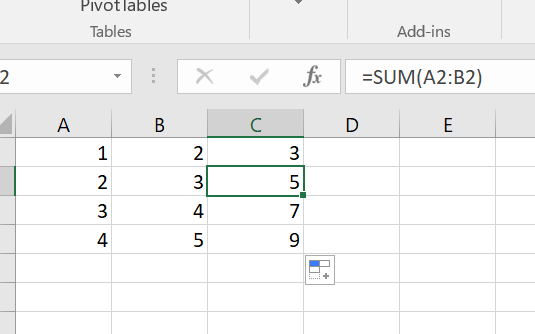
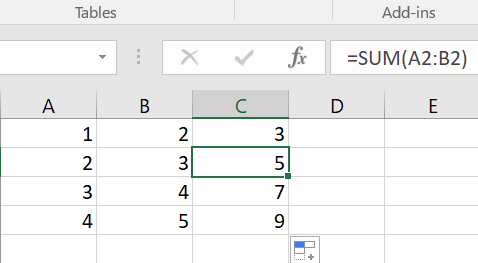
Bilder zu Tutorials

diff --git a/src/app/Tutorials/9.Klasse/1.Tabellenkalkulationsprogramm/tabellenkalkulationsprogramm/tabellenkalkulationsprogramm.component.html b/src/app/Tutorials/9.Klasse/1.Tabellenkalkulationsprogramm/tabellenkalkulationsprogramm/tabellenkalkulationsprogramm.component.html
@@ -96,19 +96,22 @@
         </div>
       <div blackbox></div>
     </div>
-    <div container *ngIf="steps[13]==true">
+    <div container *ngIf="steps[12]==true">
       <div class="line"></div>
-        <div class="box bl" (click)="steps[14]=true">
+        <div class="box bl" (click)="steps[13]=true">
           Ein relativer Zellbezug, im Gegensatz berechnet Zellen immer relativ zu ihrer Position.
-          <img src="Zellbezüge1"><img src="Zellbezüge2">
+          <img src="\assets\Zellbezüge2.png"
+          style="width: 300px">
+          <img src="\assets\Zellbezüge1.png"
+          style="width:300px">
           An dem Beispiel sieht man wie die Zellbezüge sich von A1 und B1 auf A2 und B2 verschieben.
           Dies funktioniert sowohl horizontal als auch vertikal.
         </div>
       <div blackbox></div>
     </div>
-    <div container *ngIf="steps[14]==true">
+    <div container *ngIf="steps[13]==true">
       <div class="line"></div>
-        <div class="box bl" (click)="steps[15]=true">
+        <div class="box bl" (click)="steps[14]=true">
           Diese zwei Arten von Zellbezügen können auch gemischt werden, 
           sodass vertikal ein absoluter Zellbezug besteht und horizontal ein relativer oder umgekehrt. 
           Dabei wird das $-Zeichen nur vor den Buchstaben oder die Zahl geschrieben.

diff --git a/src/app/Tutorials/9.Klasse/1.Tabellenkalkulationsprogramm/datenflussdiagramm/datenflussdiagramm.component.html b/src/app/Tutorials/9.Klasse/1.Tabellenkalkulationsprogramm/datenflussdiagramm/datenflussdiagramm.component.html
@@ -21,7 +21,8 @@
       <div container *ngIf="steps[4]==true">
         <div class="line"></div>
           <div class="box bl" (click)="steps[5]=true">
-            <img src="datenflussdiagramm1">
+            <img src="\assets\datenflussdiagramm1.png"
+            style="width:600px">
           </div>
          <div blackbox></div>
       </div>
@@ -99,7 +100,8 @@
       <div container *ngIf="steps[14]==true">
         <div class="line"></div>
           <div class="box bl" (click)="steps[15]=true">
-           <img src="datenflussdiagramm2">
+           <img src="\assets\datenflussdiagramm2.png"
+           style="width: 600px">
         <div blackbox></div>
       </div>
 

diff --git a/src/app/Tutorials/9.Klasse/1.Tabellenkalkulationsprogramm/funktionen/funktionen.component.html b/src/app/Tutorials/9.Klasse/1.Tabellenkalkulationsprogramm/funktionen/funktionen.component.html
@@ -48,8 +48,9 @@
       </div>
       <div container *ngIf="steps[6]==true">
         <div class="line"></div>
-          <div class="box" (click)="steps[7]=true">
-            <img src="VerkettungFunktion">
+          <div class="box bl" (click)="steps[7]=true">
+            <img src="\assets\VerkettungFunktion.png"
+            style="width: 600px">
             Bei diesem Beispiel wird überprüft ob die Summe der Zahlen in Spalte A und B, 9 ist. 
             Die Eingaben für Wahr oder Falsch können auch selber bestimmt werden. 
           </div>
